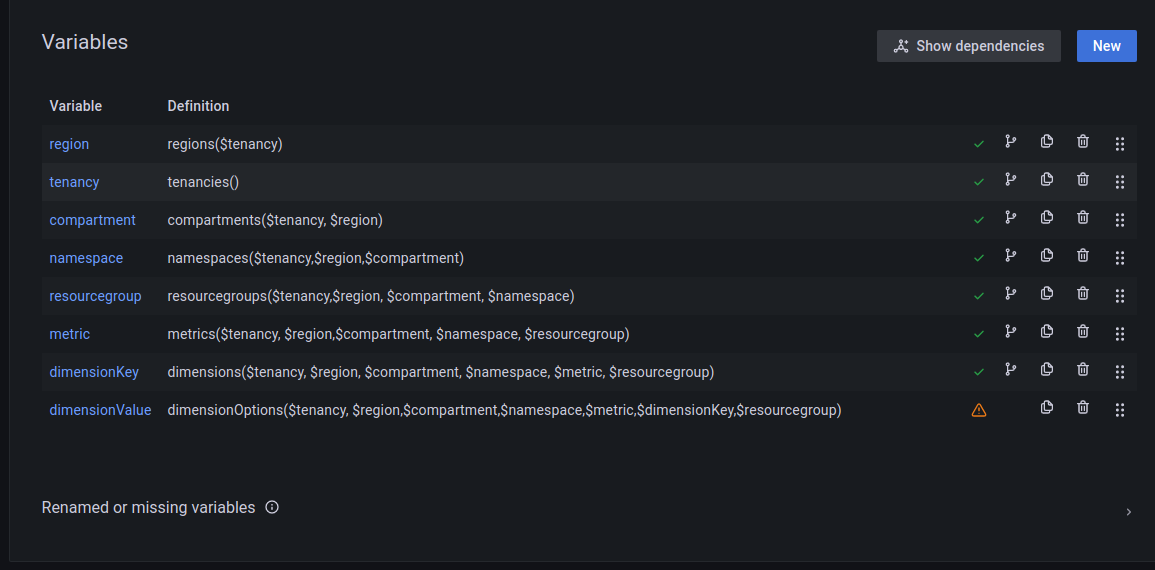
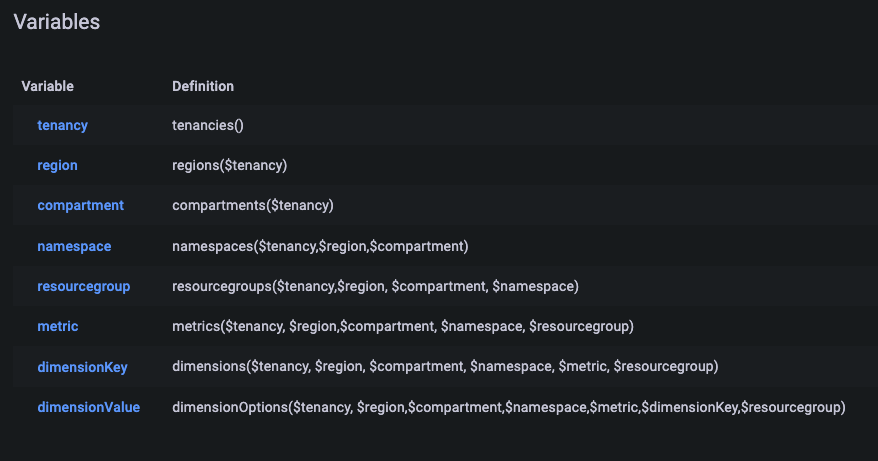
getCompartments without region

diff --git a/src/datasource.js b/src/datasource.js
@@ -435,7 +435,6 @@ export default class OCIDatasource {
       if (this.tenancymode === "multitenancy") {
         let target = {
           tenancy: removeQuotes(this.getVariableValue(compartmentQuery[1])),
-          region: removeQuotes(this.getVariableValue(compartmentQuery[2])),
         };       
         return this.getCompartments(target)
           .then((compartments) => {
@@ -646,10 +645,6 @@ export default class OCIDatasource {
         target.tenancy === SELECT_PLACEHOLDERS.TENANCY
           ? DEFAULT_TENANCY
           : this.getVariableValue(target.tenancy);
-    const region =
-      target.region === SELECT_PLACEHOLDERS.REGION
-        ? ""
-        : this.getVariableValue(target.region);
 
     return this.doRequest({
       targets: [
@@ -659,7 +654,6 @@ export default class OCIDatasource {
           datasourceId: this.id,
           tenancy: _.isEmpty(tenancy) ? "" : tenancy,
           queryType: "compartments",
-          region: _.isEmpty(region) ? this.defaultRegion : region,
         },
       ],
       range: this.timeSrv.timeRange(),

diff --git a/src/constants.js b/src/constants.js
@@ -18,7 +18,7 @@ export const environments = ['local', 'OCI Instance']
 export const tenancymodes = ['single', 'multitenancy']
 
 
-export const compartmentsQueryRegex = /^compartments\(\s*(\".+\"|\'.+\'|\$\w+)\s*,\s*(\".+\"|\'.+\'|\$\w+)\s*\)|^compartments\(\)\s*/;
+export const compartmentsQueryRegex = /^compartments\(\s*(\".+\"|\'.+\'|\$\w+)\s*\)|^compartments\(\)\s*/;
 export const regionsQueryRegex = /^regions\(\s*(\".+\"|\'.+\'|\$\w+)\s*\)|^regions\(\)\s*/;
 export const tenanciesQueryRegex = /^tenancies\(\)\s*/;
 export const namespacesQueryRegex = /^namespaces\(\s*(\".+\"|\'.+\'|\$\w+)\s*,\s*(\".+\"|\'.+\'|\$\w+)\s*(?:,\s*(\".+\"|\'.+\'|\$\w+)\s*)?\)/;

diff --git a/docs/using.md b/docs/using.md
@@ -69,7 +69,7 @@ In case plugin is configured to operate with multitenancy support, use the follo
 | ---------------- | --------------------------------------------------------------------------------------------------- |
 | tenancy        | `tenancies()`                                                                                     |
 | region         | `regions($tenancy)`                                                                               |
-| compartment    | `compartments($tenancy,$region)`                                                                  |
+| compartment    | `compartments($tenancy)`                                                                  |
 | namespace      | `namespaces($tenancy,$region,$compartment)`                                                       |
 | resourcegroup  | `resourcegroups($tenancy,$region, $compartment, $namespace)`                                      |
 | metric         | `metrics($tenancy,$region,$compartment, $namespace, $resourcegroup)`                              |

diff --git a/docs/multitenancy.md b/docs/multitenancy.md
@@ -166,7 +166,7 @@ Repeat the process for the following OCI variables:
 | ---------------- | --------------------------------------------------------------------------------------------------- |
 | tenancy        | `tenancies()`                                                                                     |
 | region         | `regions($tenancy)`                                                                               |
-| compartment    | `compartments($tenancy,$region)`                                                                  |
+| compartment    | `compartments($tenancy)`                                                                  |
 | namespace      | `namespaces($tenancy,$region,$compartment)`                                                       |
 | resourcegroup  | `resourcegroups($tenancy,$region, $compartment, $namespace)`                                      |
 | metric         | `metrics($tenancy,$region,$compartment, $namespace, $resourcegroup)`                              |
